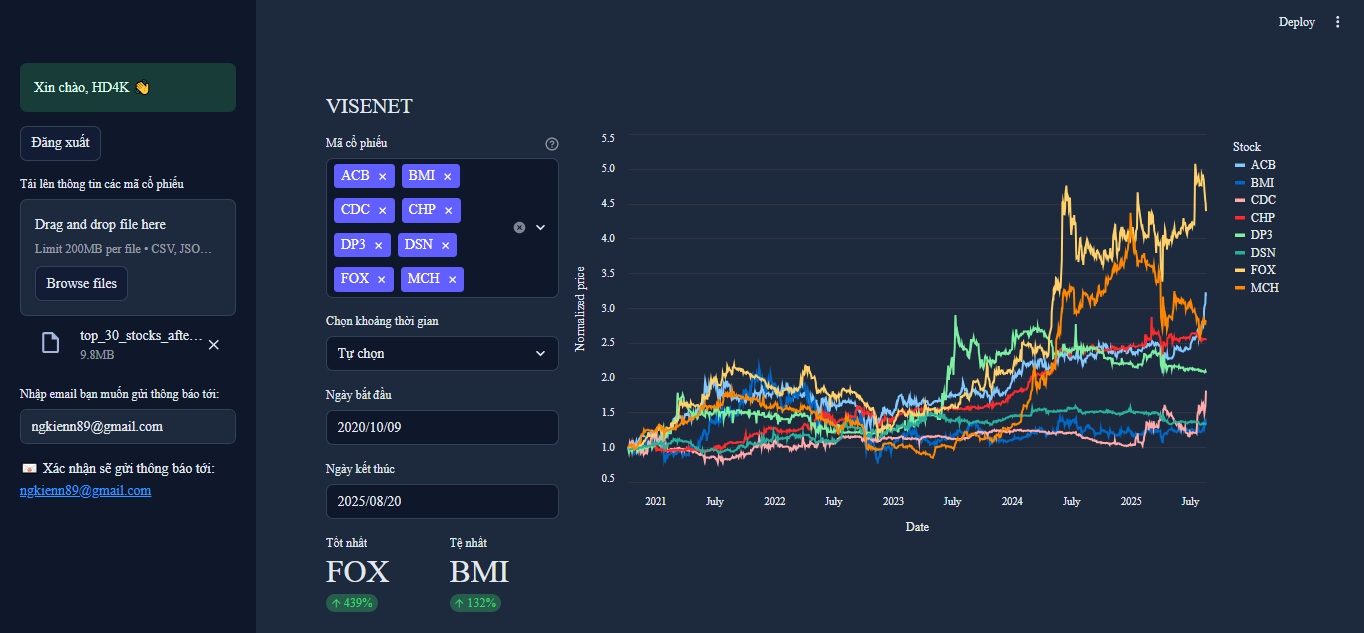
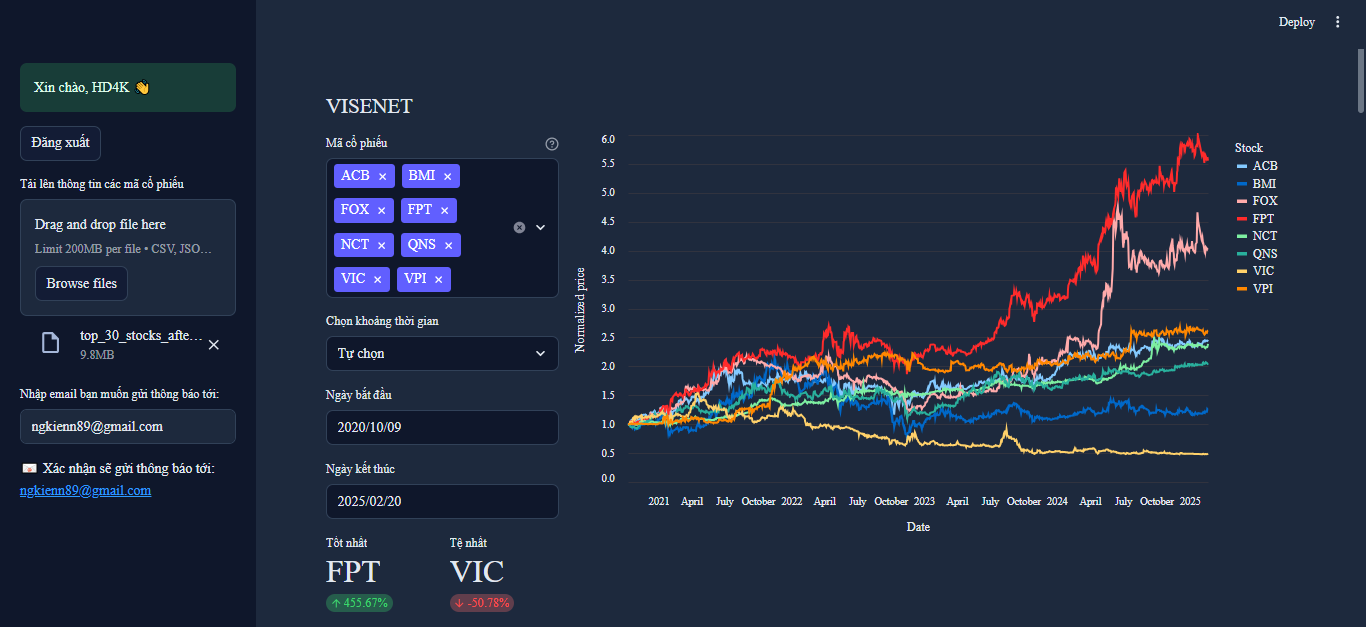
743

diff --git a/web_visenet/main_page.py b/web_visenet/main_page.py
@@ -6,11 +6,12 @@ import io
 import streamlit as st
 import pandas as pd
 import altair as alt
-import datetime
+from datetime import datetime, timedelta
 from typing import Tuple
 
 import plotly.graph_objects as go
 from plotly.subplots import make_subplots
+
 
 def show_main_page():
     st.set_page_config(
@@ -19,6 +20,48 @@ def show_main_page():
         layout="wide",
     )
     st.markdown("## VISENET")
+
+    # Khởi tạo session_state nếu chưa có
+    if "notifications" not in st.session_state:
+        st.session_state.notifications = []
+    if "unread_count" not in st.session_state:
+        st.session_state.unread_count = 0
+    if "show_notif" not in st.session_state:
+        st.session_state.show_notif = False
+
+    # Hàm thêm thông báo mới
+    def add_notification(message: str):
+        st.session_state.notifications.insert(0, {
+            "message": message,
+            "time": datetime.now().strftime("%Y-%m-%d %H:%M:%S"),
+            "read": False
+        })
+        st.session_state.unread_count += 1
+
+    with st.expander("📜 Lịch sử thông báo", expanded=False):
+        # Tạo 2 cột cho 2 nút
+        cols = st.columns([3, 2, 12], gap="small")
+
+        with cols[0]:
+            if st.button("Đánh dấu tất cả đã đọc", key="mark_read"):
+                for n in st.session_state.notifications:
+                    n["read"] = True
+                st.session_state.unread_count = 0
+                
+        with cols[1]:
+            if st.button("Xóa tất cả", key="clear_notif"):
+                st.session_state.notifications.clear()
+                st.session_state.unread_count = 0
+
+        # Chỉ render khung nếu có thông báo
+        if st.session_state.notifications:
+            notif_html = "<div class='notif-box'>"
+            for notif in st.session_state.notifications:
+                color = "🔴" if not notif["read"] else "⚪"
+                notif_html += f"<p>{color} <b>{notif['time']}</b><br>{notif['message']}</p>"
+            notif_html += "</div>"
+
+            st.markdown(notif_html, unsafe_allow_html=True)
 
     cols = st.columns([1, 3])
 
@@ -63,7 +106,7 @@ def show_main_page():
         try:
             data_close, df_agg = load_and_aggregate(st.session_state["uploaded_file_bytes"])
         except Exception as e:
-            st.error("❌ Lỗi khi đọc file CSV")
+            st.error("❌ Lỗi khi đọc file")
             st.exception(e)
             st.stop()
 
@@ -73,7 +116,7 @@ def show_main_page():
 
     else:
         data_close, df_agg, STOCKS, DEFAULT_STOCKS = None, None, None, None
-        st.warning("⚠ Chưa có file CSV nào được tải lên")
+        st.warning("⚠ Chưa có file thông tin mã cổ phiếu nào được tải lên")
 
     def stocks_to_str(stocks):
         return ",".join(stocks)
@@ -112,22 +155,22 @@ def show_main_page():
             )
 
             if option == "1 tháng":
-                start_date = max_date - datetime.timedelta(days=30)
+                start_date = max_date - timedelta(days=30)
                 end_date = max_date
             elif option == "3 tháng":
-                start_date = max_date - datetime.timedelta(days=90)
+                start_date = max_date - timedelta(days=90)
                 end_date = max_date
             elif option == "6 tháng":
-                start_date = max_date - datetime.timedelta(days=180)
+                start_date = max_date - timedelta(days=180)
                 end_date = max_date
             elif option == "1 năm":
-                start_date = max_date - datetime.timedelta(days=365)
+                start_date = max_date - timedelta(days=365)
                 end_date = max_date
             elif option == "2 năm":
-                start_date = max_date - datetime.timedelta(days=2 * 365)
+                start_date = max_date - timedelta(days=2*365)
                 end_date = max_date
             elif option == "5 năm":
-                start_date = max_date - datetime.timedelta(days=5 * 365)
+                start_date = max_date - timedelta(days=5*365)
                 end_date = max_date
             elif option == "Toàn bộ thời gian":
                 start_date, end_date = min_date, max_date
@@ -302,7 +345,7 @@ def show_main_page():
             # Tính cổ phiếu tốt nhất và tệ nhất
             latest_norm_values = {normalized[ticker].iat[-1]: ticker for ticker in tickers}
             max_norm_value = max(latest_norm_values.items())
-            min_norm_value = min(latest_norm_values.items())
+            min_norm_value = min(latest_norm_values.items()) 
 
             bottom = cols[0].container()
             with bottom:
@@ -310,12 +353,12 @@ def show_main_page():
                 mcols[0].metric(
                     "Tốt nhất",
                     max_norm_value[1],
-                    delta=f"{round(max_norm_value[0] * 100)}%",
+                    delta=f"{round((max_norm_value[0] - 1) * 100, 2)}%",
                 )
                 mcols[1].metric(
                     "Tệ nhất",
                     min_norm_value[1],
-                    delta=f"{round(min_norm_value[0] * 100)}%",
+                    delta=f"{round((min_norm_value[0] - 1) * 100, 2)}%",
                 )
 
             chart_data = normalized.reset_index().melt(id_vars=["Date"], var_name="Stock", value_name="Normalized price")

diff --git a/web_visenet/app.py b/web_visenet/app.py
@@ -139,6 +139,19 @@ def main():
     st.session_state.setdefault("logged_in", False)
     st.session_state.setdefault("user", "")
 
+    if os.path.exists(FLAG_PATH):
+        try:
+            with open(FLAG_PATH, "r", encoding="utf-8") as f:
+                flag = json.load(f)
+                username = flag.get("username")
+            os.remove(FLAG_PATH)
+            if username:
+                st.session_state["logged_in"] = True
+                st.session_state["user"] = username
+                st.rerun()
+        except Exception:
+            pass
+
     # đã login thì hiện page chính
     if st.session_state["logged_in"]:
         st.sidebar.success(f"Xin chào, {st.session_state['user']} 👋")
@@ -172,19 +185,6 @@ def main():
 
     # Login page
     components.html(load_auth_html(), height=600, scrolling=False)
-
-    if os.path.exists(FLAG_PATH):
-        try:
-            with open(FLAG_PATH, "r", encoding="utf-8") as f:
-                flag = json.load(f)
-                username = flag.get("username")
-            os.remove(FLAG_PATH)
-            if username:
-                st.session_state["logged_in"] = True
-                st.session_state["user"] = username
-                st.rerun()
-        except Exception:
-            pass
 
 
 if __name__ == "__main__":

diff --git a/web_visenet/send_notifications.py b/web_visenet/send_notifications.py
@@ -1,6 +1,8 @@
 import smtplib
 from email.mime.text import MIMEText
-def parse_actions(daily_actions):
+
+def parse_actions(daily_actions: list) -> list:
+    """Chuyển đổi danh sách hành động hàng ngày thành các thông báo, gợi ý"""
     alerts = []
     for entry in daily_actions:
         date = entry["date"]
@@ -19,7 +21,13 @@ def parse_actions(daily_actions):
 
     return alerts
 
-def send_email(subject, body, to_email, from_email, app_password):
+def send_email(subject: str, 
+               body: str, 
+               to_email: str, 
+               from_email: str, 
+               app_password: str) -> None:
+    """Gửi email với tiêu đề và nội dung đã cho"""
+    
     msg = MIMEText(body, "plain", "utf-8")
     msg["Subject"] = subject
     msg["From"] = from_email
